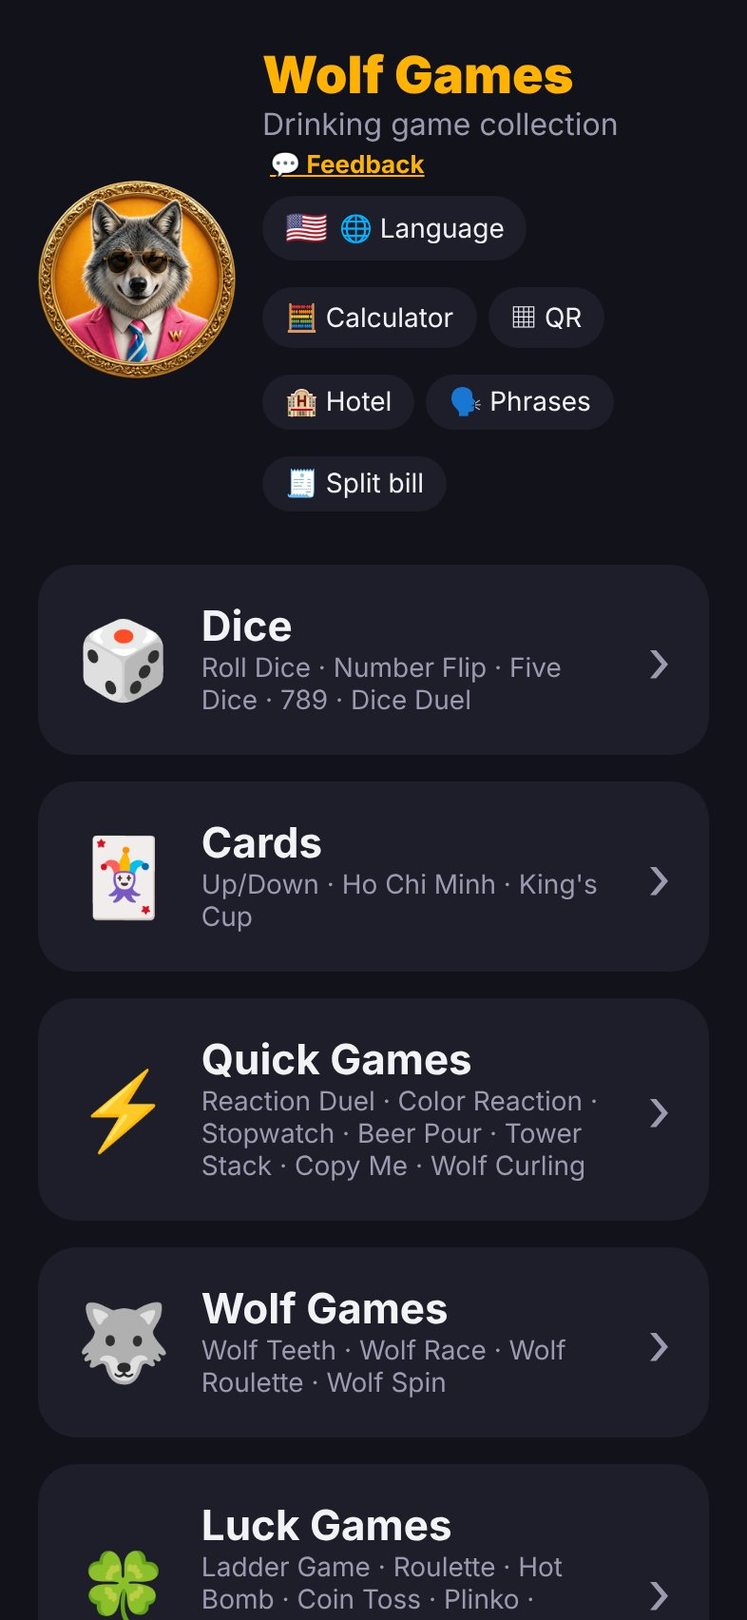
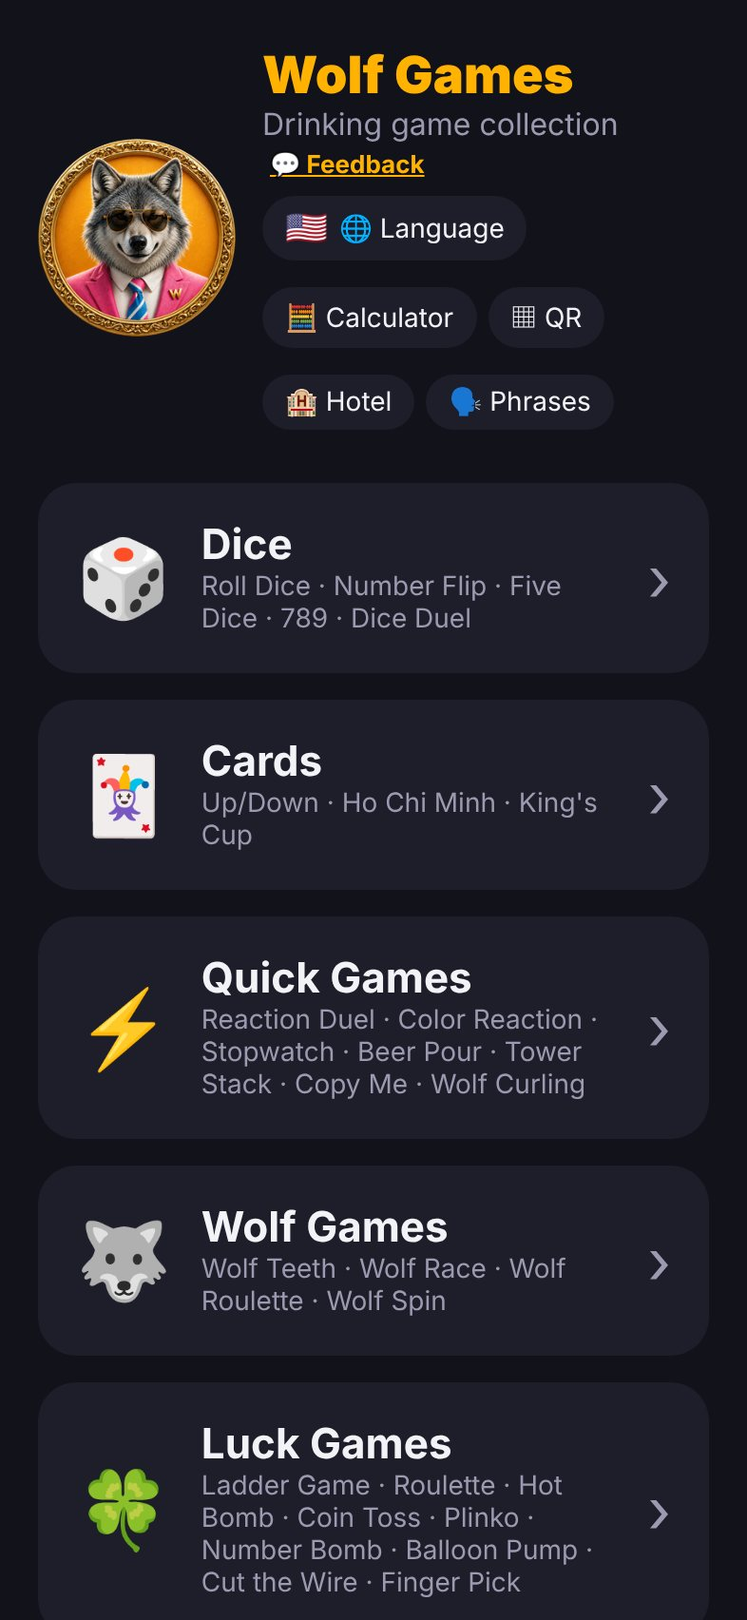
메인 화면 정산 버튼 빼기 (계산기 안으로) · 문서 · 설명서 그림 진행 중
Claude-Session: https://claude.ai/code/session_013mN1tc9XfbmBn9GeSidaFd

diff --git a/app/src/main/java/com/wolfgames/app/i18n/Changelog.kt b/app/src/main/java/com/wolfgames/app/i18n/Changelog.kt
@@ -14,7 +14,7 @@ val CHANGELOG = listOf(
         ChangeItem("🐺", mapOf("ko" to "🐺 따라 하기 버튼이 액세서리 늑대 4마리로: 😎 선글라스 · 🎀 리본 · 🧢 모자 · 👑 왕관 — 반짝일 때 폴짝 뛰면서 \"아우~\"", "en" to "🐺 Copy Me buttons are now 4 wolves with accessories: 😎 sunglasses · 🎀 bow · 🧢 cap · 👑 crown — they hop and howl when they light up", "ja" to "🐺 まねっこのボタンがアクセサリーをつけたオオカミ4匹に：😎 サングラス・🎀 リボン・🧢 帽子・👑 王冠 — 光るとぴょんと跳ねて「アオーン」", "zh" to "🐺 跟着按的按钮变成戴配饰的4只狼：😎 墨镜 · 🎀 蝴蝶结 · 🧢 帽子 · 👑 皇冠 — 亮起时会跳一下“嗷呜~”", "th" to "🐺 ปุ่มของทำตามกลายเป็นหมาป่า 4 ตัวใส่เครื่องประดับ: 😎 แว่นกันแดด · 🎀 โบว์ · 🧢 หมวก · 👑 มงกุฎ — กะพริบเมื่อไหร่จะกระโดดแล้วหอน \"อาวู~\"", "vi" to "🐺 Nút của Bắt chước giờ là 4 chú sói đeo phụ kiện: 😎 kính râm · 🎀 nơ · 🧢 mũ lưỡi trai · 👑 vương miện — sáng lên là nhảy và hú \"Awoo~\"")),
         ChangeItem("📤", mapOf("ko" to "📤 여행 정산 내보내기: 정산 기록을 엑셀(.csv)·메모장(.txt) 파일로 저장하거나 카톡 등으로 바로 공유 — 전부 지우기 전에 \"먼저 저장할래?\" 물어봐요", "en" to "📤 Trip Split export: save the record as an Excel (.csv) or text (.txt) file, or share it straight to a messenger — \"Save first?\" before Clear all", "ja" to "📤 旅行の精算を書き出し：記録をExcel（.csv）・メモ帳（.txt）で保存、またはLINEなどでそのまま共有 — 全部消す前に「先に保存する？」と確認", "zh" to "📤 旅行结算导出：可存成 Excel（.csv）或文本（.txt），也能直接分享到聊天软件 — 全部清空前会问“先保存吗？”", "th" to "📤 ส่งออกแบ่งจ่ายทริป: บันทึกเป็นไฟล์ Excel (.csv) หรือข้อความ (.txt) หรือแชร์ไปแชทได้เลย — ก่อนล้างทั้งหมดจะถามว่า \"บันทึกก่อนไหม?\"", "vi" to "📤 Xuất Chia tiền chuyến đi: lưu thành tệp Excel (.csv) hoặc văn bản (.txt), hoặc chia sẻ ngay qua ứng dụng chat — trước khi Xóa hết sẽ hỏi \"Lưu trước nhé?\"")),
         ChangeItem("💰", mapOf("ko" to "💰 중간 정산: 보낼 돈을 100·500·1,000 단위로 반올림해서 받고(예: 5,900 → 6,000), 남은 차이는 다음 정산으로 자동으로 넘어가요", "en" to "💰 Settle now: collect rounded amounts (100 · 500 · 1,000 — e.g. 5,900 → 6,000); the leftover difference carries over to the next settle-up automatically", "ja" to "💰 途中精算：送るお金を100・500・1,000単位で丸めて受け取り（例：5,900 → 6,000）、残った差額は次の精算に自動で回ります", "zh" to "💰 中途结算：把要转的钱按100·500·1,000取整先收（如5,900 → 6,000），剩下的差额自动留到下次结算", "th" to "💰 เคลียร์ระหว่างทาง: ปัดยอดโอนทีละ 100 · 500 · 1,000 (เช่น 5,900 → 6,000) ส่วนต่างที่เหลือยกไปรอบหน้าอัตโนมัติ", "vi" to "💰 Chốt giữa chừng: làm tròn số tiền theo 100 · 500 · 1,000 rồi thu (vd 5,900 → 6,000), phần chênh lệch tự chuyển sang lần chốt sau")),
-        ChangeItem("📏", mapOf("ko" to "🧮 계산기에 🧾 정산 · 📏 사이즈 버튼 추가 — 사이즈 변환표: 신발(남·여) · 상의(남·여) · 바지 허리 · 반지를 🇰🇷🇺🇸🇬🇧🇪🇺🇯🇵🇨🇳 기준으로, 내 사이즈 ⭐ 저장", "en" to "🧮 Calculator gets 🧾 Split bill and 📏 Sizes buttons — Size Chart: shoes (men/women), tops (men/women), waist and rings in 🇰🇷🇺🇸🇬🇧🇪🇺🇯🇵🇨🇳 sizes, ⭐ save yours", "ja" to "🧮 電卓に🧾精算・📏サイズボタンを追加 — サイズ換算表：靴（男・女）・トップス（男・女）・ウエスト・指輪を🇰🇷🇺🇸🇬🇧🇪🇺🇯🇵🇨🇳で、自分のサイズを⭐保存", "zh" to "🧮 计算器新增 🧾 结算 · 📏 尺码按钮 — 尺码对照表：鞋（男女）· 上衣（男女）· 裤腰 · 戒指，按 🇰🇷🇺🇸🇬🇧🇪🇺🇯🇵🇨🇳 对照，⭐ 保存自己的尺码", "th" to "🧮 เครื่องคิดเลขเพิ่มปุ่ม 🧾 แบ่งจ่าย · 📏 ไซซ์ — ตารางเทียบไซซ์: รองเท้า (ชาย/หญิง) · เสื้อ (ชาย/หญิง) · เอว · แหวน ตาม 🇰🇷🇺🇸🇬🇧🇪🇺🇯🇵🇨🇳 แล้ว ⭐ บันทึกไซซ์ของเรา", "vi" to "🧮 Máy tính có thêm nút 🧾 Chia tiền · 📏 Cỡ — Bảng quy đổi cỡ: giày (nam/nữ) · áo (nam/nữ) · vòng eo · nhẫn theo 🇰🇷🇺🇸🇬🇧🇪🇺🇯🇵🇨🇳, ⭐ lưu cỡ của bạn")),
+        ChangeItem("📏", mapOf("ko" to "🧮 계산기에 🧾 정산 · 📏 사이즈 버튼 추가 (메인 화면의 정산 버튼은 계산기 안으로 옮겼어요) — 사이즈 변환표: 신발(남·여) · 상의(남·여) · 바지 허리 · 반지를 🇰🇷🇺🇸🇬🇧🇪🇺🇯🇵🇨🇳 기준으로, 내 사이즈 ⭐ 저장", "en" to "🧮 Calculator gets 🧾 Split bill and 📏 Sizes buttons (Split bill moved off the main screen into the calculator) — Size Chart: shoes (men/women), tops (men/women), waist and rings in 🇰🇷🇺🇸🇬🇧🇪🇺🇯🇵🇨🇳 sizes, ⭐ save yours", "ja" to "🧮 電卓に🧾精算・📏サイズボタンを追加（メイン画面の精算ボタンは電卓の中へ移動） — サイズ換算表：靴（男・女）・トップス（男・女）・ウエスト・指輪を🇰🇷🇺🇸🇬🇧🇪🇺🇯🇵🇨🇳で、自分のサイズを⭐保存", "zh" to "🧮 计算器新增 🧾 结算 · 📏 尺码按钮（主页的结算按钮移到计算器里） — 尺码对照表：鞋（男女）· 上衣（男女）· 裤腰 · 戒指，按 🇰🇷🇺🇸🇬🇧🇪🇺🇯🇵🇨🇳 对照，⭐ 保存自己的尺码", "th" to "🧮 เครื่องคิดเลขเพิ่มปุ่ม 🧾 แบ่งจ่าย · 📏 ไซซ์ (ย้ายปุ่มแบ่งจ่ายจากหน้าหลักเข้าไปในเครื่องคิดเลข) — ตารางเทียบไซซ์: รองเท้า (ชาย/หญิง) · เสื้อ (ชาย/หญิง) · เอว · แหวน ตาม 🇰🇷🇺🇸🇬🇧🇪🇺🇯🇵🇨🇳 แล้ว ⭐ บันทึกไซซ์ของเรา", "vi" to "🧮 Máy tính có thêm nút 🧾 Chia tiền · 📏 Cỡ (nút Chia tiền ở màn hình chính đã chuyển vào máy tính) — Bảng quy đổi cỡ: giày (nam/nữ) · áo (nam/nữ) · vòng eo · nhẫn theo 🇰🇷🇺🇸🇬🇧🇪🇺🇯🇵🇨🇳, ⭐ lưu cỡ của bạn")),
         ChangeItem("🔄", mapOf("ko" to "🔄 앱 안에서 업데이트 (안드로이드): 새 버전이 나오면 앱을 켤 때 알려주고, 누르면 받아서 설치 화면까지 열어줘요. 업데이트 내역 화면에서 직접 확인도 돼요", "en" to "🔄 In-app update (Android): when a new version is out, the app tells you on launch, downloads it and opens the installer. You can also check from the update history screen", "ja" to "🔄 アプリ内アップデート（Android）：新しいバージョンが出たら起動時にお知らせ、押すとダウンロードしてインストール画面まで開きます。更新履歴画面から手動確認も可能", "zh" to "🔄 应用内更新（安卓）：有新版本时启动就会提示，点一下就下载并打开安装界面。也可以在更新记录页手动检查", "th" to "🔄 อัปเดตในแอป (Android): มีเวอร์ชันใหม่จะแจ้งตอนเปิดแอป แตะแล้วดาวน์โหลดและเปิดหน้าติดตั้งให้เลย ตรวจเองได้ที่หน้าประวัติอัปเดตด้วย", "vi" to "🔄 Cập nhật trong ứng dụng (Android): có bản mới sẽ báo khi mở app, bấm là tải và mở màn hình cài đặt. Cũng có thể tự kiểm tra ở màn hình lịch sử cập nhật")),
         ChangeItem("🌏", mapOf("ko" to "🌏 넷 다 글자 없이 그림·색·숫자만으로 할 수 있어서 외국인 친구랑 같이 하기 좋아요", "en" to "🌏 All four work with pictures, colors and numbers only — no reading needed, great with friends from other countries", "ja" to "🌏 4つとも文字なしで絵・色・数字だけで遊べるので、外国の友だちとも一緒に楽しめます", "zh" to "🌏 这四个游戏只靠图案、颜色和数字就能玩，不用看字，和外国朋友一起玩也没问题", "th" to "🌏 ทั้ง 4 เกมเล่นได้ด้วยรูป สี และตัวเลขเท่านั้น ไม่ต้องอ่าน เล่นกับเพื่อนต่างชาติได้สบาย", "vi" to "🌏 Cả bốn chỉ dùng hình, màu và số — không cần đọc chữ, chơi cùng bạn nước ngoài rất hợp")),
     )),

diff --git a/web/manual-i18n.js b/web/manual-i18n.js
@@ -358,7 +358,7 @@ export const MANUAL = {
     "<b>🔊 들려주기</b>를 누르면 그 나라 말로 읽어줘요. 문장 95개, 인터넷 없이 돼요 (음성은 휴대폰에 그 언어 음성이 있어야 해요)."
    ],
    [
-    "메인 화면 <b>🧾 정산</b> 버튼. 같이 간 사람 이름을 넣어요 (2~12명, ➕ 사람 · ✕ 빼기).",
+    "🧮 계산기 → <b>🧾 정산</b> 버튼. 같이 간 사람 이름을 넣어요 (2~12명, ➕ 사람 · ✕ 빼기).",
     "돈을 쓸 때마다 <b>금액 · 메모</b>를 넣고, <b>낸 사람</b>과 <b>같이 쓴 사람</b>을 고른 뒤 <b>➕ 쓴 돈 추가</b>.",
     "<b>정산 결과</b>에 \"A → B 얼마\"처럼 누가 누구한테 얼마 보내면 되는지 나와요 (사람별 쓴 몫도). 기록은 이 휴대폰에만 저장돼요. <b>💰 중간 정산</b>: 1,000원 단위 등으로 반올림해서 받고 남은 차이는 다음으로. <b>📤 내보내기</b>: 엑셀(.csv) · 메모장(.txt)으로 저장하거나 카톡으로 공유."
    ],
@@ -946,7 +946,7 @@ export const MANUAL = {
     "Tap <b>🔊 Play sound</b> to hear it read aloud. 95 phrases, all offline (sound needs that language's voice on the phone)."
    ],
    [
-    "Tap <b>🧾 Split bill</b> on the main screen. Enter the travelers' names (2–12, ➕ Person · ✕ to remove).",
+    "🧮 Calculator → <b>🧾 Split bill</b> button. Enter the travelers' names (2–12, ➕ Person · ✕ to remove).",
     "For each expense, enter the <b>amount · note</b>, pick <b>Paid by</b> and <b>Split between</b>, then <b>➕ Add expense</b>.",
     "<b>Who pays whom</b> shows lines like \"A → B amount\" (plus everyone's share). Everything stays only on this phone. <b>💰 Settle now</b>: collect rounded amounts (e.g. to 1,000); the leftover carries over. <b>📤 Export</b>: save as Excel (.csv) / text (.txt) or share to a messenger."
    ],
@@ -1533,7 +1533,7 @@ export const MANUAL = {
     "<b>🔊 読み上げる</b>でその国の言葉で読み上げ。全95文、ネットなしでOK（音声はスマホにその言語の音声が必要）。"
    ],
    [
-    "メイン画面の<b>🧾 精算</b>ボタン。一緒に行く人の名前を入れます（2〜12人、➕ 人・✕ で削除）。",
+    "🧮 電卓 → <b>🧾 精算</b>ボタン。一緒に行く人の名前を入れます（2〜12人、➕ 人・✕ で削除）。",
     "お金を使うたびに<b>金額・メモ</b>を入れ、<b>払った人</b>と<b>一緒に使った人</b>を選んで<b>➕ 支出を追加</b>。",
     "<b>精算結果</b>に「A → B いくら」のように誰が誰にいくら送ればいいか表示（一人ずつの使った分も）。記録はこのスマホだけに保存。 <b>💰 途中精算</b>：1,000単位などに丸めて受け取り、残りの差額は次へ。<b>📤 書き出し</b>：Excel（.csv）・メモ帳（.txt）で保存、またはLINEなどで共有。"
    ],
@@ -2120,7 +2120,7 @@ export const MANUAL = {
     "点<b>🔊 朗读</b>就用那种语言读出来。共95句，没网也能用（朗读需要手机里有该语言的语音）。"
    ],
    [
-    "点主界面<b>🧾 结算</b>按钮。输入同行人的名字（2~12人，➕ 添加 · ✕ 删除）。",
+    "🧮 计算器 → <b>🧾 结算</b>按钮。输入同行人的名字（2~12人，➕ 添加 · ✕ 删除）。",
     "每次花钱都输入<b>金额 · 备注</b>，选好<b>付款人</b>和<b>一起分摊的人</b>，再点<b>➕ 添加支出</b>。",
     "<b>结算结果</b>会显示“A → B 多少钱”，告诉你谁该转给谁多少（还有每人应摊的钱）。记录只保存在这部手机里。 <b>💰 中途结算</b>：按1,000等单位取整先收，剩下的差额留到下次。<b>📤 导出</b>：存成 Excel（.csv）或文本（.txt），或分享到聊天软件。"
    ],
@@ -2707,7 +2707,7 @@ export const MANUAL = {
     "แตะ <b>🔊 เปิดเสียง</b> เพื่อฟังการอ่านออกเสียง มีทั้งหมด 95 ประโยค ไม่ต้องใช้เน็ต (เสียงต้องมีเสียงภาษานั้นในมือถือ)"
    ],
    [
-    "แตะปุ่ม <b>🧾 แบ่งจ่าย</b> ที่หน้าหลัก ใส่ชื่อคนที่ไปด้วยกัน (2–12 คน ➕ คน · ✕ เพื่อลบ)",
+    "🧮 เครื่องคิดเลข → ปุ่ม <b>🧾 แบ่งจ่าย</b> ใส่ชื่อคนที่ไปด้วยกัน (2–12 คน ➕ คน · ✕ เพื่อลบ)",
     "ทุกครั้งที่จ่ายเงิน ใส่<b>จำนวนเงิน · โน้ต</b> เลือก<b>คนจ่าย</b>และ<b>หารกับใคร</b> แล้วแตะ <b>➕ เพิ่มค่าใช้จ่าย</b>",
     "<b>ผลการแบ่งจ่าย</b>จะบอกเป็น \"A → B เท่าไหร่\" ว่าใครต้องโอนให้ใคร (พร้อมส่วนที่แต่ละคนใช้) ข้อมูลเก็บในมือถือเครื่องนี้เท่านั้น <b>💰 เคลียร์ระหว่างทาง</b>: ปัดเป็นหลัก 1,000 ฯลฯ แล้วเก็บก่อน ส่วนต่างยกไปรอบหน้า <b>📤 ส่งออก</b>: บันทึกเป็น Excel (.csv) / ข้อความ (.txt) หรือแชร์ไปแชท"
    ],
@@ -3294,7 +3294,7 @@ export const MANUAL = {
     "Chạm <b>🔊 Phát âm</b> để nghe đọc to. 95 câu, không cần mạng (phát âm cần có giọng đọc của ngôn ngữ đó trên điện thoại)."
    ],
    [
-    "Chạm nút <b>🧾 Chia tiền</b> ở màn hình chính. Nhập tên những người đi cùng (2–12 người, ➕ Người · ✕ để bỏ).",
+    "🧮 Máy tính → nút <b>🧾 Chia tiền</b>. Nhập tên những người đi cùng (2–12 người, ➕ Người · ✕ để bỏ).",
     "Mỗi lần chi tiền, nhập <b>số tiền · ghi chú</b>, chọn <b>Người trả</b> và <b>Chia cho</b>, rồi chạm <b>➕ Thêm khoản chi</b>.",
     "<b>Kết quả</b> hiện dạng \"A → B bao nhiêu\" để biết ai chuyển cho ai bao nhiêu (kèm phần chi của từng người). Mọi thứ chỉ lưu trên điện thoại này. <b>💰 Chốt giữa chừng</b>: làm tròn (vd theo 1,000) rồi thu, phần chênh lệch chuyển sang lần sau. <b>📤 Xuất ra</b>: lưu Excel (.csv) / văn bản (.txt) hoặc chia sẻ qua chat."
    ],

diff --git a/web/changelog.js b/web/changelog.js
@@ -84,12 +84,12 @@ export const CHANGELOG = [
    [
     "📏",
     {
-     "ko": "🧮 계산기에 🧾 정산 · 📏 사이즈 버튼 추가 — 사이즈 변환표: 신발(남·여) · 상의(남·여) · 바지 허리 · 반지를 🇰🇷🇺🇸🇬🇧🇪🇺🇯🇵🇨🇳 기준으로, 내 사이즈 ⭐ 저장",
-     "en": "🧮 Calculator gets 🧾 Split bill and 📏 Sizes buttons — Size Chart: shoes (men/women), tops (men/women), waist and rings in 🇰🇷🇺🇸🇬🇧🇪🇺🇯🇵🇨🇳 sizes, ⭐ save yours",
-     "ja": "🧮 電卓に🧾精算・📏サイズボタンを追加 — サイズ換算表：靴（男・女）・トップス（男・女）・ウエスト・指輪を🇰🇷🇺🇸🇬🇧🇪🇺🇯🇵🇨🇳で、自分のサイズを⭐保存",
-     "zh": "🧮 计算器新增 🧾 结算 · 📏 尺码按钮 — 尺码对照表：鞋（男女）· 上衣（男女）· 裤腰 · 戒指，按 🇰🇷🇺🇸🇬🇧🇪🇺🇯🇵🇨🇳 对照，⭐ 保存自己的尺码",
-     "th": "🧮 เครื่องคิดเลขเพิ่มปุ่ม 🧾 แบ่งจ่าย · 📏 ไซซ์ — ตารางเทียบไซซ์: รองเท้า (ชาย/หญิง) · เสื้อ (ชาย/หญิง) · เอว · แหวน ตาม 🇰🇷🇺🇸🇬🇧🇪🇺🇯🇵🇨🇳 แล้ว ⭐ บันทึกไซซ์ของเรา",
-     "vi": "🧮 Máy tính có thêm nút 🧾 Chia tiền · 📏 Cỡ — Bảng quy đổi cỡ: giày (nam/nữ) · áo (nam/nữ) · vòng eo · nhẫn theo 🇰🇷🇺🇸🇬🇧🇪🇺🇯🇵🇨🇳, ⭐ lưu cỡ của bạn"
+     "ko": "🧮 계산기에 🧾 정산 · 📏 사이즈 버튼 추가 (메인 화면의 정산 버튼은 계산기 안으로 옮겼어요) — 사이즈 변환표: 신발(남·여) · 상의(남·여) · 바지 허리 · 반지를 🇰🇷🇺🇸🇬🇧🇪🇺🇯🇵🇨🇳 기준으로, 내 사이즈 ⭐ 저장",
+     "en": "🧮 Calculator gets 🧾 Split bill and 📏 Sizes buttons (Split bill moved off the main screen into the calculator) — Size Chart: shoes (men/women), tops (men/women), waist and rings in 🇰🇷🇺🇸🇬🇧🇪🇺🇯🇵🇨🇳 sizes, ⭐ save yours",
+     "ja": "🧮 電卓に🧾精算・📏サイズボタンを追加（メイン画面の精算ボタンは電卓の中へ移動） — サイズ換算表：靴（男・女）・トップス（男・女）・ウエスト・指輪を🇰🇷🇺🇸🇬🇧🇪🇺🇯🇵🇨🇳で、自分のサイズを⭐保存",
+     "zh": "🧮 计算器新增 🧾 结算 · 📏 尺码按钮（主页的结算按钮移到计算器里） — 尺码对照表：鞋（男女）· 上衣（男女）· 裤腰 · 戒指，按 🇰🇷🇺🇸🇬🇧🇪🇺🇯🇵🇨🇳 对照，⭐ 保存自己的尺码",
+     "th": "🧮 เครื่องคิดเลขเพิ่มปุ่ม 🧾 แบ่งจ่าย · 📏 ไซซ์ (ย้ายปุ่มแบ่งจ่ายจากหน้าหลักเข้าไปในเครื่องคิดเลข) — ตารางเทียบไซซ์: รองเท้า (ชาย/หญิง) · เสื้อ (ชาย/หญิง) · เอว · แหวน ตาม 🇰🇷🇺🇸🇬🇧🇪🇺🇯🇵🇨🇳 แล้ว ⭐ บันทึกไซซ์ของเรา",
+     "vi": "🧮 Máy tính có thêm nút 🧾 Chia tiền · 📏 Cỡ (nút Chia tiền ở màn hình chính đã chuyển vào máy tính) — Bảng quy đổi cỡ: giày (nam/nữ) · áo (nam/nữ) · vòng eo · nhẫn theo 🇰🇷🇺🇸🇬🇧🇪🇺🇯🇵🇨🇳, ⭐ lưu cỡ của bạn"
     }
    ],
    [

diff --git a/app/src/main/java/com/wolfgames/app/MainActivity.kt b/app/src/main/java/com/wolfgames/app/MainActivity.kt
@@ -165,7 +165,7 @@ fun App(langPref: String, currentLang: Lang, lang2: Lang?, onLangChange: (String
             Screen.Croc, Screen.Race, Screen.Pirate, Screen.Arrow -> Screen.WolfMenu
             Screen.Ladder, Screen.Roulette, Screen.Bomb -> Screen.LuckMenu
             Screen.Four -> Screen.BattleMenu
-            Screen.Fx, Screen.Sizes, Screen.CalcSettle -> Screen.Calc
+            Screen.Fx, Screen.Sizes, Screen.CalcSettle, Screen.Settle -> Screen.Calc
             else -> Screen.Home
         }
     }
@@ -353,16 +353,6 @@ fun HomeScreen(currentLang: Lang, onSelect: (Screen) -> Unit) {
                             verticalAlignment = Alignment.CenterVertically,
                         ) {
                             Text(m.phraseBtn, color = WG.Text, fontSize = 14.sp)
-                        }
-                        Row(
-                            Modifier
-                                .clip(RoundedCornerShape(20.dp))
-                                .background(WG.Surface)
-                                .clickable { vibe.tap(); onSelect(Screen.Settle) }
-                                .padding(horizontal = 12.dp, vertical = 6.dp),
-                            verticalAlignment = Alignment.CenterVertically,
-                        ) {
-                            Text(m.settleBtn, color = WG.Text, fontSize = 14.sp)
                         }
                     }
                 }

diff --git a/web/app.js b/web/app.js
@@ -117,8 +117,7 @@ function homeScreen(root) {
           btn(`🧮 ${m(s.calcTitle)}`, () => go('calc'), 'chip'),
           btn('▦ QR', () => go('qr'), 'chip'),
           btn(m(s.hotelBtn), () => go('hotel'), 'chip'),
-          btn(m(s.phraseBtn), () => go('phrase'), 'chip'),
-          btn(m(s.settleBtn), () => go('settle'), 'chip')))),
+          btn(m(s.phraseBtn), () => go('phrase'), 'chip')))),
     h('div', { style: 'height:4px' }),
     card('🎲', s.menuDice, s.menuDiceSub, () => go('dice')),
     card('🃏', s.menuCards, s.menuCardsSub, () => go('cards')),

diff --git a/tools/manual_text.py b/tools/manual_text.py
@@ -758,7 +758,7 @@ HOW = {'ko': {'navHow': '🎮 게임 방법',
                   ['메인 화면 <b>🗣 회화</b> 버튼. 먼저 <b>보여줄 언어</b>(상대방 나라 말)를 고르고, 아래 묶음 — 👋 인사 · 🚕 교통 · 🍜 식당 · 🏨 숙소 · 🍻 술집 · 🛍 쇼핑·도움 · 🤬 장난 욕 — 중 하나를 골라요.',
                    '문장을 누르면 <b>흰 화면에 큰 글씨</b>로 상대방 말이 나와요 (아래엔 내 말 작게). ‹ › 로 같은 묶음 안에서 넘겨요.',
                    '<b>🔊 들려주기</b>를 누르면 그 나라 말로 읽어줘요. 문장 95개, 인터넷 없이 돼요 (음성은 휴대폰에 그 언어 음성이 있어야 해요).'],
-                  ['메인 화면 <b>🧾 정산</b> 버튼. 같이 간 사람 이름을 넣어요 (2~12명, ➕ 사람 · ✕ 빼기).',
+                  ['🧮 계산기 → <b>🧾 정산</b> 버튼. 같이 간 사람 이름을 넣어요 (2~12명, ➕ 사람 · ✕ 빼기).',
                    '돈을 쓸 때마다 <b>금액 · 메모</b>를 넣고, <b>낸 사람</b>과 <b>같이 쓴 사람</b>을 고른 뒤 <b>➕ 쓴 돈 추가</b>.',
                    '<b>정산 결과</b>에 "A → B 얼마"처럼 누가 누구한테 얼마 보내면 되는지 나와요 (사람별 쓴 몫도). 기록은 이 휴대폰에만 저장돼요. <b>💰 중간 정산</b>: 1,000원 단위 등으로 반올림해서 받고 남은 차이는 다음으로. <b>📤 내보내기</b>: 엑셀(.csv) · 메모장(.txt)으로 저장하거나 '
                    '카톡으로 공유.'],
@@ -893,7 +893,7 @@ HOW = {'ko': {'navHow': '🎮 게임 방법',
                    'Shopping & help · 🤬 Swears.',
                    'Tap a phrase to show it <b>big on white</b> in their language (yours in small below). Use ‹ › to move within the group.',
                    "Tap <b>🔊 Play sound</b> to hear it read aloud. 95 phrases, all offline (sound needs that language's voice on the phone)."],
-                  ["Tap <b>🧾 Split bill</b> on the main screen. Enter the travelers' names (2–12, ➕ Person · ✕ to remove).",
+                  ["🧮 Calculator → <b>🧾 Split bill</b> button. Enter the travelers' names (2–12, ➕ Person · ✕ to remove).",
                    'For each expense, enter the <b>amount · note</b>, pick <b>Paid by</b> and <b>Split between</b>, then <b>➕ Add expense</b>.',
                    '<b>Who pays whom</b> shows lines like "A → B amount" (plus everyone\'s share). Everything stays only on this phone. <b>💰 Settle now</b>: collect rounded amounts (e.g. to 1,000); '
                    'the leftover carries over. <b>📤 Export</b>: save as Excel (.csv) / text (.txt) or share to a messenger.'],
@@ -969,7 +969,7 @@ HOW = {'ko': {'navHow': '🎮 게임 방법',
                   ['メイン画面の<b>🗣 会話</b>ボタン。まず<b>見せる言語</b>（相手の国の言葉）を選び、下のグループ — 👋 あいさつ・🚕 交通・🍜 食堂・🏨 宿・🍻 飲み屋・🛍 買い物・助け・🤬 悪口 — から1つ選びます。',
                    '文をタップすると<b>白い画面に大きな文字</b>で相手の言葉が出ます（下に自分の言葉を小さく）。‹ › で同じグループ内を移動。',
                    '<b>🔊 読み上げる</b>でその国の言葉で読み上げ。全95文、ネットなしでOK（音声はスマホにその言語の音声が必要）。'],
-                  ['メイン画面の<b>🧾 精算</b>ボタン。一緒に行く人の名前を入れます（2〜12人、➕ 人・✕ で削除）。',
+                  ['🧮 電卓 → <b>🧾 精算</b>ボタン。一緒に行く人の名前を入れます（2〜12人、➕ 人・✕ で削除）。',
                    'お金を使うたびに<b>金額・メモ</b>を入れ、<b>払った人</b>と<b>一緒に使った人</b>を選んで<b>➕ 支出を追加</b>。',
                    '<b>精算結果</b>に「A → B いくら」のように誰が誰にいくら送ればいいか表示（一人ずつの使った分も）。記録はこのスマホだけに保存。 <b>💰 途中精算</b>：1,000単位などに丸めて受け取り、残りの差額は次へ。<b>📤 書き出し</b>：Excel（.csv）・メモ帳（.txt）で保存、またはLINEなどで共有。'],
                   ['🧮 電卓 → <b>📏 サイズ</b>ボタン（電卓には<b>🧾 精算</b>ボタンもあります）。', '上で 👟 靴（男・女）・👕 トップス（男・女）・👖 ウエスト・💍 指輪 を選ぶと、🇰🇷🇺🇸🇬🇧🇪🇺🇯🇵🇨🇳 のサイズが1行に並びます。', '自分のサイズの行をタッチすると⭐保存され、次もすぐ表示。目安なのでブランドによって少し違います。'],
@@ -1030,7 +1030,7 @@ HOW = {'ko': {'navHow': '🎮 게임 방법',
                   ['点主界面<b>🗣 会话</b>按钮。先选<b>显示语言</b>（对方的语言），再选一个分组 — 👋 问候 · 🚕 交通 · 🍜 餐厅 · 🏨 住宿 · 🍻 酒吧 · 🛍 购物·求助 · 🤬 脏话。',
                    '点句子就会用对方的语言<b>白底大字</b>显示（下面小字是自己的语言）。用 ‹ › 在同一分组里切换。',
                    '点<b>🔊 朗读</b>就用那种语言读出来。共95句，没网也能用（朗读需要手机里有该语言的语音）。'],
-                  ['点主界面<b>🧾 结算</b>按钮。输入同行人的名字（2~12人，➕ 添加 · ✕ 删除）。',
+                  ['🧮 计算器 → <b>🧾 结算</b>按钮。输入同行人的名字（2~12人，➕ 添加 · ✕ 删除）。',
                    '每次花钱都输入<b>金额 · 备注</b>，选好<b>付款人</b>和<b>一起分摊的人</b>，再点<b>➕ 添加支出</b>。',
                    '<b>结算结果</b>会显示“A → B 多少钱”，告诉你谁该转给谁多少（还有每人应摊的钱）。记录只保存在这部手机里。 <b>💰 中途结算</b>：按1,000等单位取整先收，剩下的差额留到下次。<b>📤 导出</b>：存成 Excel（.csv）或文本（.txt），或分享到聊天软件。'],
                   ['🧮 计算器 → <b>📏 尺码</b>按钮（计算器里也有 <b>🧾 结算</b> 按钮）。', '在上面选 👟 鞋（男女）· 👕 上衣（男女）· 👖 裤腰 · 💍 戒指，🇰🇷🇺🇸🇬🇧🇪🇺🇯🇵🇨🇳 的尺码会排在同一行。', '点自己的那一行会 ⭐ 保存，下次直接显示。仅供参考，各品牌略有不同。'],
@@ -1154,7 +1154,7 @@ HOW = {'ko': {'navHow': '🎮 게임 방법',
                    'ช้อปปิ้ง·ขอความช่วยเหลือ · 🤬 คำด่า',
                    'แตะประโยคเพื่อแสดง<b>ตัวใหญ่บนพื้นขาว</b>เป็นภาษาของอีกฝ่าย (ข้างล่างเป็นภาษาเราตัวเล็ก) ใช้ ‹ › เลื่อนในหมวดเดียวกัน',
                    'แตะ <b>🔊 เปิดเสียง</b> เพื่อฟังการอ่านออกเสียง มีทั้งหมด 95 ประโยค ไม่ต้องใช้เน็ต (เสียงต้องมีเสียงภาษานั้นในมือถือ)'],
-                  ['แตะปุ่ม <b>🧾 แบ่งจ่าย</b> ที่หน้าหลัก ใส่ชื่อคนที่ไปด้วยกัน (2–12 คน ➕ คน · ✕ เพื่อลบ)',
+                  ['🧮 เครื่องคิดเลข → ปุ่ม <b>🧾 แบ่งจ่าย</b> ใส่ชื่อคนที่ไปด้วยกัน (2–12 คน ➕ คน · ✕ เพื่อลบ)',
                    'ทุกครั้งที่จ่ายเงิน ใส่<b>จำนวนเงิน · โน้ต</b> เลือก<b>คนจ่าย</b>และ<b>หารกับใคร</b> แล้วแตะ <b>➕ เพิ่มค่าใช้จ่าย</b>',
                    '<b>ผลการแบ่งจ่าย</b>จะบอกเป็น "A → B เท่าไหร่" ว่าใครต้องโอนให้ใคร (พร้อมส่วนที่แต่ละคนใช้) ข้อมูลเก็บในมือถือเครื่องนี้เท่านั้น <b>💰 เคลียร์ระหว่างทาง</b>: ปัดเป็นหลัก 1,000 ฯลฯ '
                    'แล้วเก็บก่อน ส่วนต่างยกไปรอบหน้า <b>📤 ส่งออก</b>: บันทึกเป็น Excel (.csv) / ข้อความ (.txt) หรือแชร์ไปแชท'],
@@ -1289,7 +1289,7 @@ HOW = {'ko': {'navHow': '🎮 게임 방법',
                    'nhậu · 🛍 Mua sắm·Giúp đỡ · 🤬 Chửi vui.',
                    'Chạm một câu để hiện <b>chữ to trên nền trắng</b> bằng tiếng của họ (bên dưới là tiếng của mình, chữ nhỏ). Dùng ‹ › để chuyển trong cùng nhóm.',
                    'Chạm <b>🔊 Phát âm</b> để nghe đọc to. 95 câu, không cần mạng (phát âm cần có giọng đọc của ngôn ngữ đó trên điện thoại).'],
-                  ['Chạm nút <b>🧾 Chia tiền</b> ở màn hình chính. Nhập tên những người đi cùng (2–12 người, ➕ Người · ✕ để bỏ).',
+                  ['🧮 Máy tính → nút <b>🧾 Chia tiền</b>. Nhập tên những người đi cùng (2–12 người, ➕ Người · ✕ để bỏ).',
                    'Mỗi lần chi tiền, nhập <b>số tiền · ghi chú</b>, chọn <b>Người trả</b> và <b>Chia cho</b>, rồi chạm <b>➕ Thêm khoản chi</b>.',
                    '<b>Kết quả</b> hiện dạng "A → B bao nhiêu" để biết ai chuyển cho ai bao nhiêu (kèm phần chi của từng người). Mọi thứ chỉ lưu trên điện thoại này. <b>💰 Chốt giữa chừng</b>: làm '
                    'tròn (vd theo 1,000) rồi thu, phần chênh lệch chuyển sang lần sau. <b>📤 Xuất ra</b>: lưu Excel (.csv) / văn bản (.txt) hoặc chia sẻ qua chat.'],

diff --git a/tools/changelog.py b/tools/changelog.py
@@ -61,12 +61,12 @@ CHANGELOG = [
             vi='💰 Chốt giữa chừng: làm tròn số tiền theo 100 · 500 · 1,000 rồi thu (vd 5,900 → 6,000), phần chênh lệch tự chuyển sang lần chốt sau',
         )),
         ('📏', dict(
-            ko='🧮 계산기에 🧾 정산 · 📏 사이즈 버튼 추가 — 사이즈 변환표: 신발(남·여) · 상의(남·여) · 바지 허리 · 반지를 🇰🇷🇺🇸🇬🇧🇪🇺🇯🇵🇨🇳 기준으로, 내 사이즈 ⭐ 저장',
-            en="🧮 Calculator gets 🧾 Split bill and 📏 Sizes buttons — Size Chart: shoes (men/women), tops (men/women), waist and rings in 🇰🇷🇺🇸🇬🇧🇪🇺🇯🇵🇨🇳 sizes, ⭐ save yours",
-            ja='🧮 電卓に🧾精算・📏サイズボタンを追加 — サイズ換算表：靴（男・女）・トップス（男・女）・ウエスト・指輪を🇰🇷🇺🇸🇬🇧🇪🇺🇯🇵🇨🇳で、自分のサイズを⭐保存',
-            zh='🧮 计算器新增 🧾 结算 · 📏 尺码按钮 — 尺码对照表：鞋（男女）· 上衣（男女）· 裤腰 · 戒指，按 🇰🇷🇺🇸🇬🇧🇪🇺🇯🇵🇨🇳 对照，⭐ 保存自己的尺码',
-            th='🧮 เครื่องคิดเลขเพิ่มปุ่ม 🧾 แบ่งจ่าย · 📏 ไซซ์ — ตารางเทียบไซซ์: รองเท้า (ชาย/หญิง) · เสื้อ (ชาย/หญิง) · เอว · แหวน ตาม 🇰🇷🇺🇸🇬🇧🇪🇺🇯🇵🇨🇳 แล้ว ⭐ บันทึกไซซ์ของเรา',
-            vi='🧮 Máy tính có thêm nút 🧾 Chia tiền · 📏 Cỡ — Bảng quy đổi cỡ: giày (nam/nữ) · áo (nam/nữ) · vòng eo · nhẫn theo 🇰🇷🇺🇸🇬🇧🇪🇺🇯🇵🇨🇳, ⭐ lưu cỡ của bạn',
+            ko='🧮 계산기에 🧾 정산 · 📏 사이즈 버튼 추가 (메인 화면의 정산 버튼은 계산기 안으로 옮겼어요) — 사이즈 변환표: 신발(남·여) · 상의(남·여) · 바지 허리 · 반지를 🇰🇷🇺🇸🇬🇧🇪🇺🇯🇵🇨🇳 기준으로, 내 사이즈 ⭐ 저장',
+            en="🧮 Calculator gets 🧾 Split bill and 📏 Sizes buttons (Split bill moved off the main screen into the calculator) — Size Chart: shoes (men/women), tops (men/women), waist and rings in 🇰🇷🇺🇸🇬🇧🇪🇺🇯🇵🇨🇳 sizes, ⭐ save yours",
+            ja='🧮 電卓に🧾精算・📏サイズボタンを追加（メイン画面の精算ボタンは電卓の中へ移動） — サイズ換算表：靴（男・女）・トップス（男・女）・ウエスト・指輪を🇰🇷🇺🇸🇬🇧🇪🇺🇯🇵🇨🇳で、自分のサイズを⭐保存',
+            zh='🧮 计算器新增 🧾 结算 · 📏 尺码按钮（主页的结算按钮移到计算器里） — 尺码对照表：鞋（男女）· 上衣（男女）· 裤腰 · 戒指，按 🇰🇷🇺🇸🇬🇧🇪🇺🇯🇵🇨🇳 对照，⭐ 保存自己的尺码',
+            th='🧮 เครื่องคิดเลขเพิ่มปุ่ม 🧾 แบ่งจ่าย · 📏 ไซซ์ (ย้ายปุ่มแบ่งจ่ายจากหน้าหลักเข้าไปในเครื่องคิดเลข) — ตารางเทียบไซซ์: รองเท้า (ชาย/หญิง) · เสื้อ (ชาย/หญิง) · เอว · แหวน ตาม 🇰🇷🇺🇸🇬🇧🇪🇺🇯🇵🇨🇳 แล้ว ⭐ บันทึกไซซ์ของเรา',
+            vi='🧮 Máy tính có thêm nút 🧾 Chia tiền · 📏 Cỡ (nút Chia tiền ở màn hình chính đã chuyển vào máy tính) — Bảng quy đổi cỡ: giày (nam/nữ) · áo (nam/nữ) · vòng eo · nhẫn theo 🇰🇷🇺🇸🇬🇧🇪🇺🇯🇵🇨🇳, ⭐ lưu cỡ của bạn',
         )),
         ('🔄', dict(
             ko='🔄 앱 안에서 업데이트 (안드로이드): 새 버전이 나오면 앱을 켤 때 알려주고, 누르면 받아서 설치 화면까지 열어줘요. 업데이트 내역 화면에서 직접 확인도 돼요',

diff --git a/tools/build_manual.py b/tools/build_manual.py
@@ -325,7 +325,7 @@ def game_shots(b, lang):
     pg.evaluate("localStorage.removeItem('wg-ph-to'); localStorage.removeItem('wg-ph-cat')")
     # 여행 정산: 3명, 쓴 돈 3개 → 결과
     pg.evaluate("localStorage.removeItem('wg-settle')")
-    home(); pg.locator('.hero .chip').nth(5).click(); pg.wait_for_timeout(500)
+    home(); pg.locator('.hero .chip').nth(1).click(); pg.wait_for_timeout(400); pg.locator('.body.pad .btn').nth(3).click(); pg.wait_for_timeout(500)
     for amt, memo, by, tog in [('90000', '🍽', 0, []), ('30000', '🚕', 1, []), ('12000', '🍺', 2, [0])]:
         pg.fill('.stin >> nth=0', amt); pg.fill('.stin >> nth=1', memo)
         pg.locator('.stcard .strow').nth(0).locator('.chip').nth(by).click()
@@ -366,8 +366,8 @@ def game_shots(b, lang):
         pg.mouse.click(x0 + pad + gx * st, y0 + pad + gy * st); pg.wait_for_timeout(120)
     pg.wait_for_timeout(300); shot('how-gomoku')
     # 🏗 탑 쌓기: 몇 층 쌓은 모습
-    home(); card(2); card(4); start(); pg.wait_for_timeout(600)
-    for k in range(6): pg.mouse.click(196, 500); pg.wait_for_timeout(520 + k * 60)
+    home(); card(2); card(4); start(); pg.wait_for_timeout(200)
+    for dt in [1000, 940, 890, 840, 795, 750]: pg.wait_for_timeout(dt); pg.mouse.click(196, 500)
     pg.wait_for_timeout(250); shot('how-tower')
     # 🔴 따라 하기: 첫 늑대가 반짝이는 순간
     home(); card(2); card(5); pg.evaluate("Math.__r = Math.random; Math.random = () => 0.3"); start(); pg.evaluate("Math.random = Math.__r"); pg.wait_for_timeout(1000); shot('how-simon')

diff --git a/README.md b/README.md
@@ -246,7 +246,7 @@ Powered by WOLF(feat. segna) · https://wolf.community
 - ✂ 폭탄 선 자르기 추가 (운빨게임) — 넷 다 글자 없이 그림·색·숫자만으로 (외국인 친구랑 같이)
 - 📤 여행 정산 내보내기: 엑셀(.csv) · 메모장(.txt) 저장 · 카톡 등 공유, 전부 지우기 전에 "먼저 저장할래?"
 - 💰 중간 정산: 100 · 500 · 1,000 단위로 반올림해서 받고(5,900 → 6,000), 남은 차이는 다음 정산으로
-- 🧮 계산기에 🧾 정산 · 📏 사이즈 버튼 — 사이즈 변환표(신발·상의 남여 · 바지 허리 · 반지, 🇰🇷🇺🇸🇬🇧🇪🇺🇯🇵🇨🇳)
+- 🧮 계산기에 🧾 정산 · 📏 사이즈 버튼 (메인 화면 정산 버튼은 계산기 안으로) — 사이즈 변환표(신발·상의 남여 · 바지 허리 · 반지, 🇰🇷🇺🇸🇬🇧🇪🇺🇯🇵🇨🇳)
 - 🔄 앱 안에서 업데이트 (안드로이드): 새 버전 알림 → 받아서 설치 화면까지
 
 ### v1.7
@@ -358,9 +358,8 @@ Powered by WOLF(feat. segna) · https://wolf.community
 - 문장 추가: `tools/phrases_more.py`에 한 줄 넣고 `python3 tools/apply_phrases.py` → `gen_web_i18n.py` · `gen_dual.py`
 
 ## 🧾 여행 정산
-- 메인 화면 **🧾 정산** 버튼. 같이 간 사람(2~12명) 이름을 넣고, 쓴 돈마다 **금액 · 메모 · 낸 사람 · 같이 쓴 사람**을 넣어요.
+- **🧮 계산기 → 🧾 정산** 버튼 (v1.8부터 메인 화면 버튼은 계산기 안으로). 같이 간 사람(2~12명) 이름을 넣고, 쓴 돈마다 **금액 · 메모 · 낸 사람 · 같이 쓴 사람**을 넣어요.
 - **정산 결과**: 총액, "A → B 얼마"(보내는 횟수가 적게), 사람별 쓴 몫. 기록 하나씩 지우기 · 전부 지우기.
-- 메인 화면 버튼이나 **🧮 계산기 → 🧾 정산** 어디서 열어도 같은 기록이에요 (v1.8).
 - **💰 중간 정산** (v1.8): 비용이 커지면 중간에 한 번씩 수금. 반올림 단위(100 · 500 · **1,000** 기본)를 고르면 "A → B 6,000"처럼 딱 떨어지게 보여주고, **✅ 받았어요**를 누르면 기록은 그대로 두고 "💰 중간 정산 #1" 줄로 처리 → 남은 차이(예: 100원)는 다음 정산에 자동으로 반영 (가까운 쪽으로 반올림).
 - **📤 내보내기** (v1.8): 📊 엑셀 파일(.csv, 한글 안 깨짐) · 📝 메모장 파일(.txt) 저장, 💬 카톡 등으로 바로 공유. 쓴 돈 전체·총액·사람별 낸 돈/쓴 몫·정산 결과가 들어가요. **🗑 전부 지우기** 전에 "먼저 저장하기"를 물어봐요.
 - 기록은 **이 휴대폰에만 저장**돼요.
